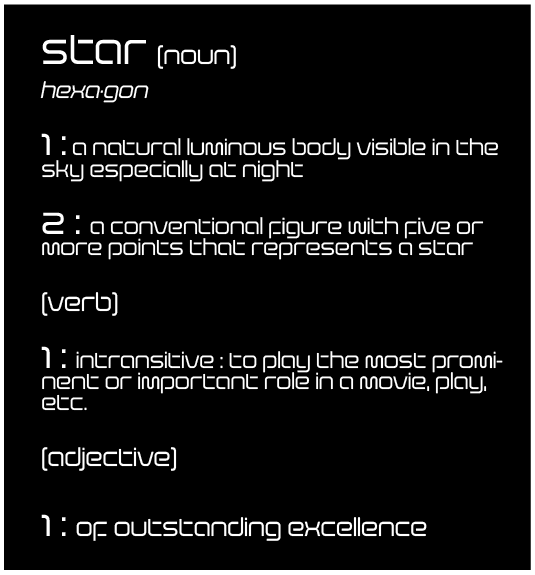
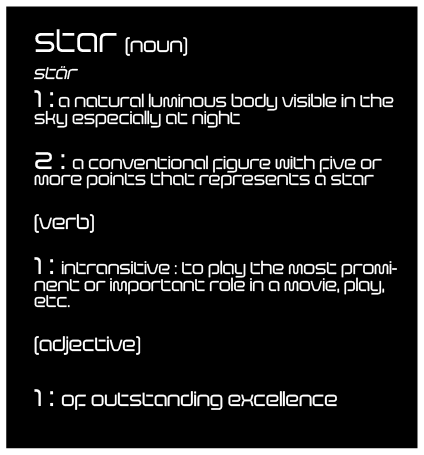
update

Changed region(s): [[0.0613, 0.0615, 0.9505, 0.8308], [0.0, 0.0, 1.0, 1.0], [0.0613, 0.8615, 0.7972, 0.9538]]

diff --git a/star/index.html b/star/index.html
@@ -14,7 +14,7 @@
   </div>
 </div>
 
-  <div class="start">
+  <div class="star">
       <img src="star.png" alt="star image" class="hover-star">
   </div>
 
@@ -34,10 +34,21 @@
 <h1>history</h1>
 </div>
 
-<p>The triangle is one of the earliest known geometric shapes, with evidence 
-of its use dating back to ancient Mesopotamia (modern-day Iraq), over 5000 years ago. 
-Its name was derived from the Latin word ”triangulus,” meaning “three-cornered”.</p>
+<p>A pentagram (sometimes known as a pentalpha, pentangle, or star pentagon) is a regular 
+  five-pointed star polygon, formed from the diagonal line segments of a convex (or simple, or non-self-intersecting) 
+  regular pentagon. Drawing a circle around the five points creates a similar symbol referred to as the pentacle,[1] 
+  which is used widely by Wiccans and in paganism, or as a sign of life and connections. The word "pentagram" refers 
+  only to the five-pointed star, not the surrounding circle of a pentacle.</p>
+
+<p>Pentagrams were used symbolically in ancient Greece and Babylonia. Christians once commonly used the pentagram to 
+  represent the five wounds of Jesus.</p>
   
+<p>The word pentagram comes from the Greek word πεντάγραμμον (pentagrammon),[2] from πέντε (pente), "five" + γραμμή 
+  (grammē), "line".[3] The word pentagram refers to just the star and the word pentacle refers to the star within a 
+  circle, although there is some overlap in usage.[4] The word pentalpha is a 17th-century revival of a post-classical 
+  Greek name of the shape.[5]</p>
+  
+    
 
 
 

diff --git a/hexagon/index.html b/hexagon/index.html
@@ -35,13 +35,14 @@
 <h1>history</h1>
 </div>
 
-<p>The triangle is one of the earliest known geometric shapes, with evidence 
-of its use dating back to ancient Mesopotamia (modern-day Iraq), over 5000 years ago. 
-Its name was derived from the Latin word ”triangulus,” meaning “three-cornered”.</p1>
-<p>
-  Triangles can be used in art in many different ways. They can be used to make optical illusions, 
-  to add details to many different things and can even be used to make things like teeth, spikes, swords, 
-  or blades of grass. Triangles are used to bring harmony to the artists drawing, sketch or painting.
+<p>Dating back to the Roman times of 36 B.C., philosophers wondered about the honeycomb 
+  shape and it was not until many generations later that it was discovered and proven that 
+  the honeycomb shape is the most mathematically perfect form, leaving very little waste 
+  when the shape is lined together. For centuries, scientists were confused on why bees chose 
+  the hexagon shape as opposed to shapes like a square or circle. The answer comes in the form 
+  of packing efficiency.
+
+</p>
 
 
 

diff --git a/star/style.css b/star/style.css
@@ -72,10 +72,12 @@ p{
 
 
 .def{
+  width: 383px;
+  height: 412px;
   position: absolute;
   margin-left: 40%;  
   margin-top: 1.5%;
-
+  width: 30%;
 }
 
 .hover-def {
@@ -94,11 +96,10 @@ p{
 
 
 .formula{
-  width: 30%;
   position: absolute;
   margin-left: 10%;
-  left: 55%;
-  bottom: 10%
+  left: 35%;
+  bottom: 1%
 }
 
 .hover-formula {
